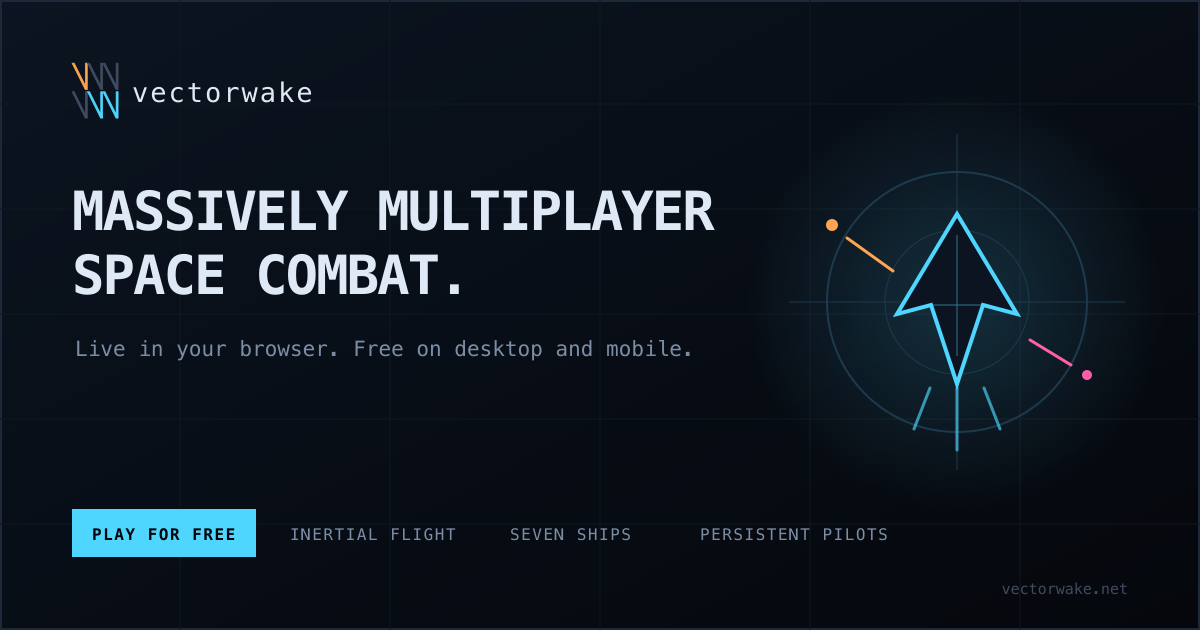
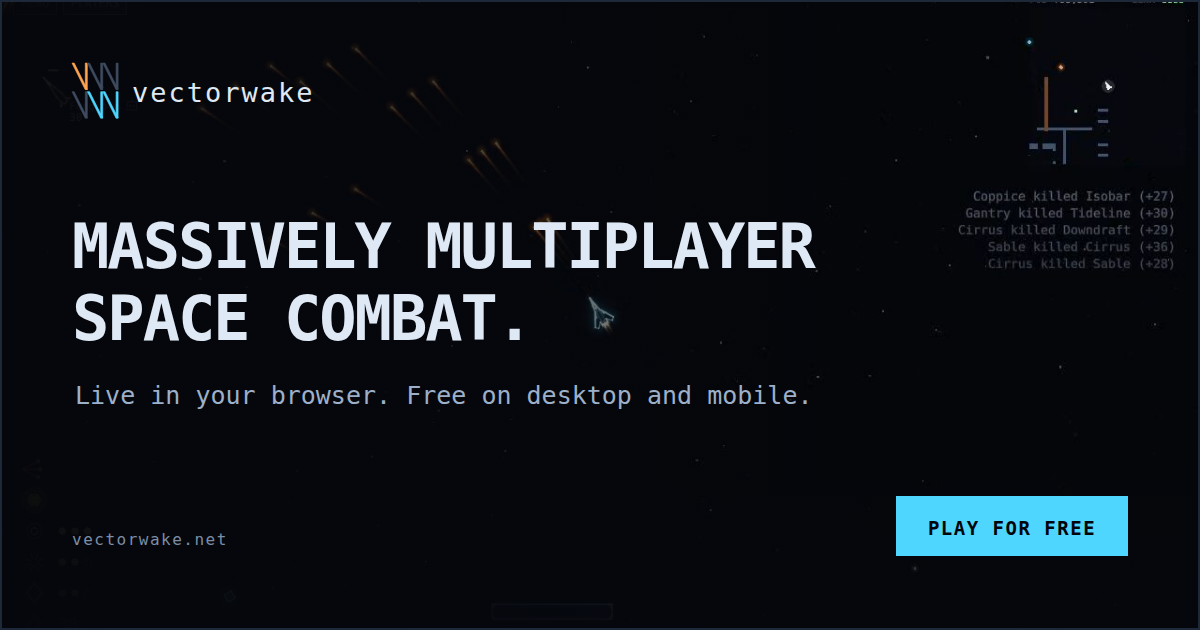
One share card, with the game actually in it
Every embed now names vectorwake.net/share-card.png. The game page carried its
own, which meant two images to keep current and a guarantee that one of them was
the stale one; a link to play.vectorwake.net and a link to vectorwake.net are the
same game and should not preview as two different products. The second card is
deleted rather than left pointing at nothing.

The card itself was a drawing of a ship on a gradient, on a site whose entire
first screen is footage. It is now the frame the hero slot opens on, under the
same two-gradient scrim the hero wears in site.css: heavy at the left where the
words sit, nearly clear at the right where the arena reads, dark along the
bottom. The three feature words are gone, the headline and the deck line are
larger, and PLAY FOR FREE is bigger and in the right corner with the url taking
the corner it left.

Rasterising is a script now, because two things about it are not guessable and
both cost a render to find.

An svg loaded through <img> is an isolated document and may not fetch anything
external, so the gameplay frame silently does not draw: the card comes out as
flat colour with all the text still on it and looks deliberate. The svg is
inlined into the page instead, which is also why the background stays a relative
path rather than 27 KB of base64 in a file whose whole value is being readable.

And it is `headless_shell` rather than `chrome --headless`, because the full
[…]

diff --git a/client/web/engine_template.html b/client/web/engine_template.html
@@ -20,15 +20,15 @@
 	<meta property="og:title" content="Play Vectorwake">
 	<meta property="og:description" content="Enter the arena for free live multiplayer space combat in your browser.">
 	<meta property="og:url" content="https://play.vectorwake.net/">
-	<meta property="og:image" content="https://vectorwake.net/play-share-card.png">
+	<meta property="og:image" content="https://vectorwake.net/share-card.png">
 	<meta property="og:image:width" content="1200">
 	<meta property="og:image:height" content="630">
-	<meta property="og:image:alt" content="Enter the Vectorwake arena.">
+	<meta property="og:image:alt" content="Vectorwake: massively multiplayer space combat.">
 	<meta name="twitter:card" content="summary_large_image">
 	<meta name="twitter:title" content="Play Vectorwake">
 	<meta name="twitter:description" content="Enter the arena for free live multiplayer space combat in your browser.">
-	<meta name="twitter:image" content="https://vectorwake.net/play-share-card.png">
-	<meta name="twitter:image:alt" content="Enter the Vectorwake arena.">
+	<meta name="twitter:image" content="https://vectorwake.net/share-card.png">
+	<meta name="twitter:image:alt" content="Vectorwake: massively multiplayer space combat.">
 	<link rel="canonical" href="https://play.vectorwake.net/">
 
 	<!-- Written out rather than {{project.title}} {{project.version}}, which
